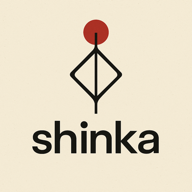
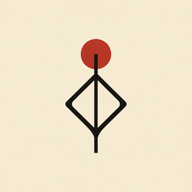
🎨 feat: add 'shinka' branding text to homepage and founder page for improved visibility

Changed region(s): [[0.1562, 0.0938, 0.8438, 0.8125]]

diff --git a/app/founder/page.tsx b/app/founder/page.tsx
@@ -13,6 +13,7 @@ export default function FounderPage() {
           <div className="flex justify-between items-center h-16">
             <div className="flex items-center space-x-3">
               <Image src="/shinka-logo.png" alt="Shinka" width={120} height={40} className="h-8 w-auto" />
+              <span className="text-foreground font-normal text-lg tracking-tight">shinka</span>
             </div>
             <div className="hidden md:flex items-center space-x-8">
               <a href="/#services" className="text-foreground/80 hover:text-foreground transition-colors font-medium">

diff --git a/app/page.tsx b/app/page.tsx
@@ -13,6 +13,7 @@ export default function Home() {
           <div className="flex justify-between items-center h-16">
             <div className="flex items-center space-x-3">
               <Image src="/shinka-logo.png" alt="Shinka" width={120} height={40} className="h-8 w-auto" />
+              <span className="text-foreground font-normal text-lg tracking-tight">shinka</span>
             </div>
             <div className="hidden md:flex items-center space-x-8">
               <a href="#services" className="text-foreground/80 hover:text-foreground transition-colors font-medium">
